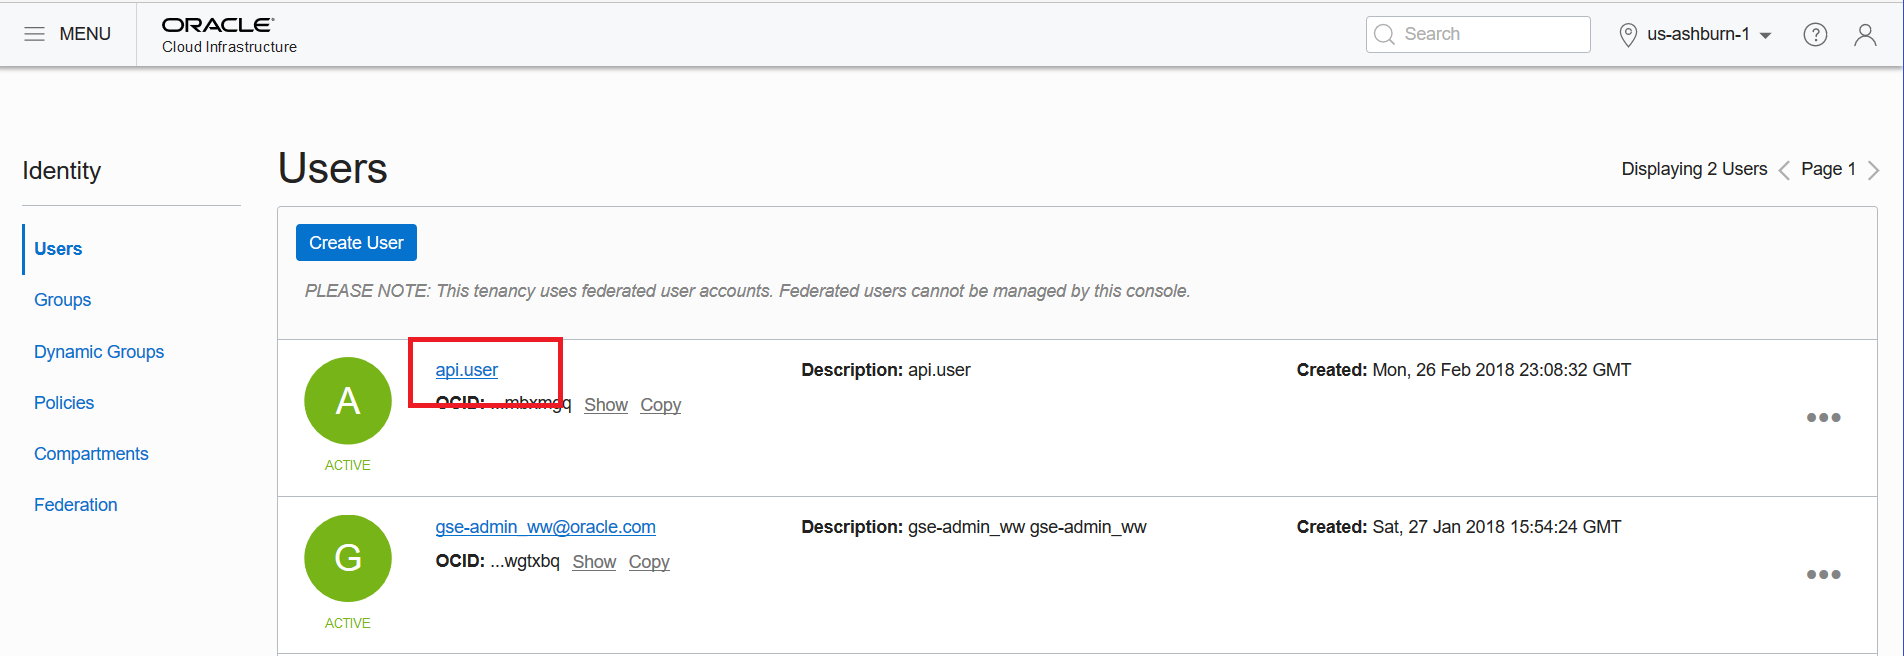
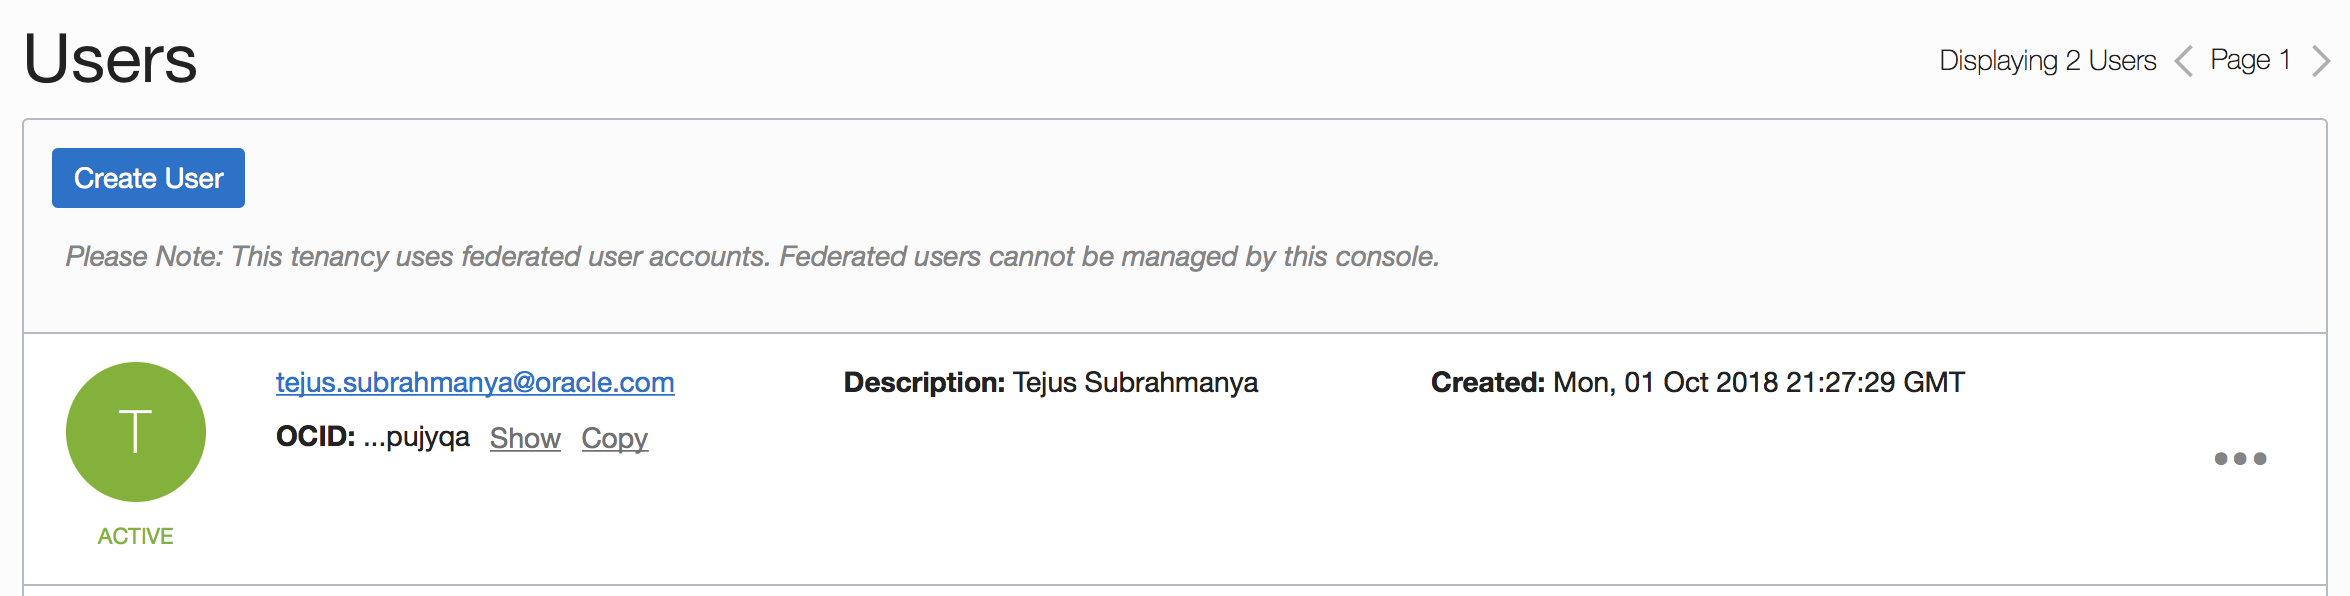
Changes to lab 400

diff --git a/workshops/LabGuide400DataLoadingIntoATP.md b/workshops/LabGuide400DataLoadingIntoATP.md
@@ -170,7 +170,7 @@ To load data from the Oracle Cloud Infrastructure(OCI) Object Storage you will n
 
 -   Click the **user's name** to view the details.  Also, remember the username as you will need that in the next step.
 
-For this lab we will be using **api.user**.
+For this lab we will be using admin user.
 
 ![](./images/400/Create_Swift_Password_02.png)
 
@@ -196,7 +196,7 @@ In order to access data in the Object Store you have to enable your database use
 
 -   Connected as your user in SQL Developer, copy and paste <a href="./scripts/300/create_credential.txt" target="_blank">this code snippet</a> to SQL Developer worksheet.
 
-Specify the credentials for your Oracle Cloud Infrastructure Object Storage service: The username will be the **OCI username** (in our case it is **api.user**) and the OCI object store **Auth Token** you generated in the previous step.  In this example, the crediential object named **OBJ\_STORE\_CRED** is created. You reference this credential name in the following steps.
+Specify the credentials for your Oracle Cloud Infrastructure Object Storage service: The username will be the **OCI username** (in our case it is **your email address**) and the OCI object store **Auth Token** you generated in the previous step.  In this example, the crediential object named **OBJ\_STORE\_CRED** is created. You reference this credential name in the following steps.
 
  ![](./images/400/snap0015312.jpg)
 
